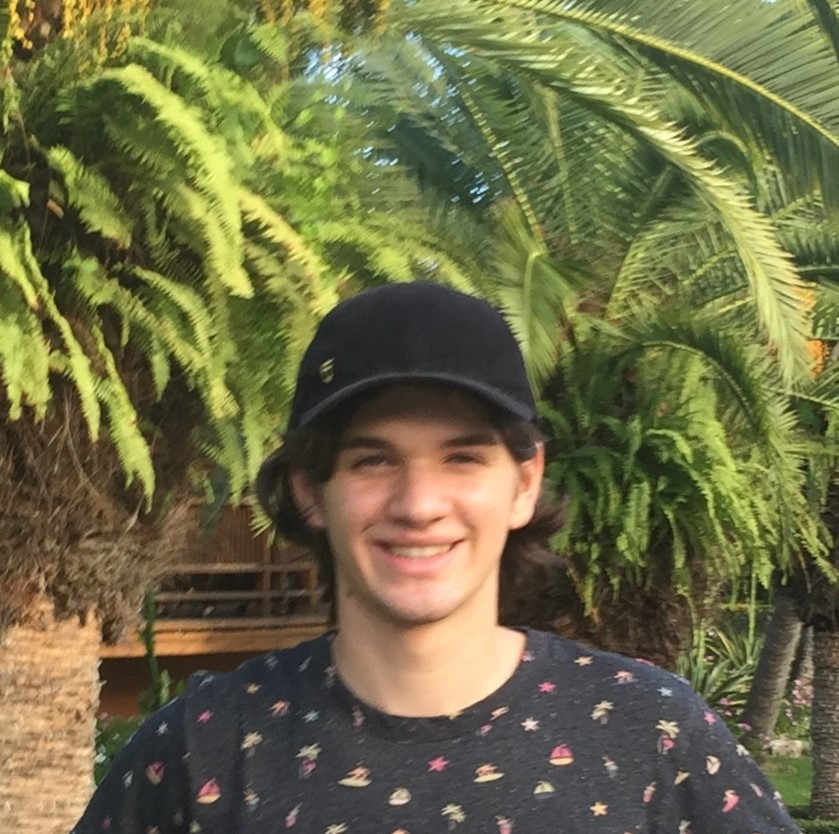
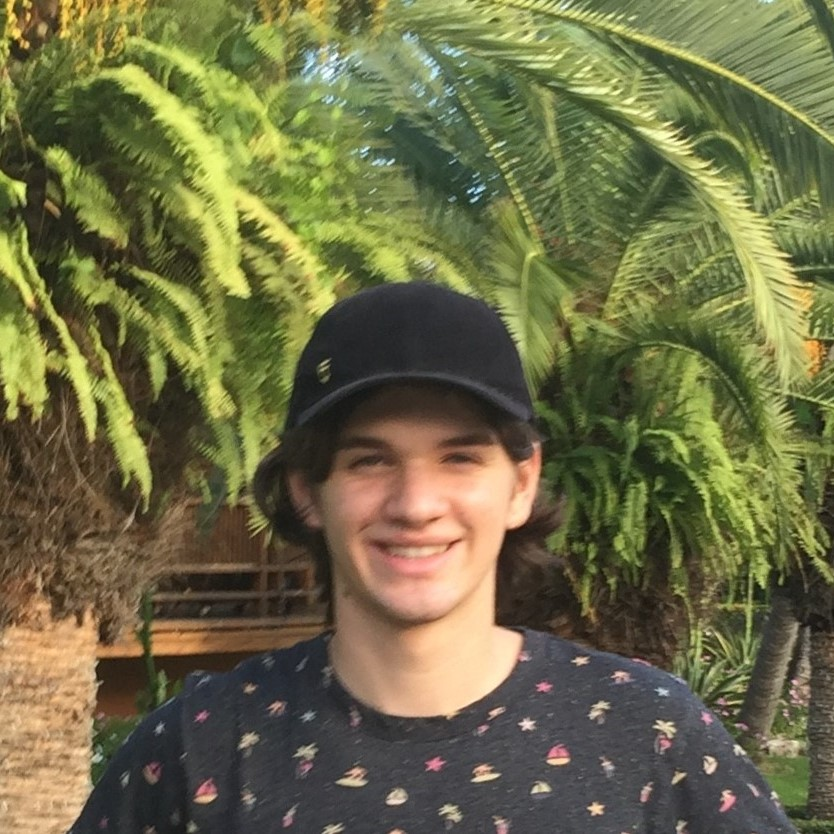
Animations done

diff --git a/schedule/templates/schedule/aboutus.html b/schedule/templates/schedule/aboutus.html
@@ -1,48 +1,65 @@
 {% extends "schedule/base.html" %}
 {% load static %}
-{% block content%}
 
-<div class='wrapper'>
-    <div class='header'> 
-        About Us 
-    </div> 
-<div class='grid'>
+{% block content%}
+<div id='cloudsbackground'>
+    <div id='clouds' class='slide-in'>
+        <img id='cloud1'  class='aclouds' src={% static 'schedule/images/cloud_clipart.png' %}>
+        <img id='cloud2'  class='aclouds ' src={% static 'schedule/images/cloud_clipart.png' %}>
+        <img id='cloud3'  class='aclouds' src={% static 'schedule/images/cloud_clipart.png' %}>
+        <img id='cloud4'  class='aclouds' src={% static 'schedule/images/cloud_clipart.png' %}>
+        <img id='cloud5'  class='aclouds' src={% static 'schedule/images/cloud_clipart.png' %}>
+        <img id='cloud6'  class='aclouds' src={% static 'schedule/images/cloud_clipart.png' %}>
+        <img id='cloud7'  class='aclouds' src={% static 'schedule/images/cloud_clipart.png' %}>
+        <img id='cloud8'  class='aclouds' src={% static 'schedule/images/cloud_clipart.png' %}>
+        <img id='cloud9'  class='aclouds cloud-grow' src={% static 'schedule/images/cloud_clipart.png' %}>
+        <img id='cloud10' class='aclouds' src={% static 'schedule/images/cloud_clipart.png' %}>
+        <img id='cloud11' class='aclouds' src={% static 'schedule/images/cloud_clipart.png' %}>
+        <img id='cloud12' class='aclouds cloud-grow' src={% static 'schedule/images/cloud_clipart.png' %}>
+</div>
+
+
+    <div class='grid fade-in-text'>
         <div id='alex' class='container '>
-            <img id= 'alexcloud' class='aboutBox' src={% static 'schedule/images/cloud_clipart.png' %}>
-                <img class='headshot' id='aleximage' src={% static 'schedule/images/headshot_alex.jpg' %}>
-                <p class='profile fade-in' id='atext'> Hi, my name is Alex (he/him) <br> I am the co-founder of Premium Babysitting. <br>
-                I am incredibly excited to be returning to the <br> program again this year! Next year I am heading off <br> to the University
-                of Waterloo, so I want to make <br> sure this last summer in Ottawa is a blast!! <br> Some of my hobbies include: <br> soccer,
-                bouldering and playing the ukelele. <br> Hope to see you all this summer :)
+            <img class='headshot' id='aleximage' src={% static 'schedule/images/Linkedin_alex_headshot.jpeg' %}>
+                <p class='profile fade-in' id='atext'> Hi, my name is Alex (he/him), and I am the co-founder of Premium Babysitting. 
+                I am incredibly excited to be returning to the program again this year! 
+                <br> 
+                <br>
+                Next year I am heading off to the University of Waterloo, so I want to make sure 
+                this last summer in Ottawa is a blast!
+                <br>
+                <br>
+                Hobbies: Soccer, bouldering and playing the ukelele. 
+                <br>
+                <br>
+                Hope to see you all this summer :)
                 </p>
                 
         </div>
 
-        <div id='lucas' class='container'>
-            <img id='lucascloud'  class='aboutBox' src={% static 'schedule/images/cloud_clipart.png' %}>
-                <img class='headshot' id='lucasimage' src={% static 'schedule/images/lucas_headshot.jpg' %}>
-                <p class='profile fade-in' id='ltext'> Hi, my name is Lucas (he/him). <br> I am the co-founder of Premium Babysitting. <br>
-                I can't wait to be back with the program <br> this summer! Next year I will be attending <br> McGill University.  </p>
+        <div id='lucas' class='container'>            
+            <img class='headshot' id='lucasimage' src={% static 'schedule/images/lucas_headshot.jpg' %}>
+                <p class='profile fade-in' id='ltext'> Hi, my name is Lucas (he/him), and I am the co-founder of Premium Babysitting.
+                I can't wait to be back with the program this summer! 
+                <br>
+                <br>
+                Next year I will be attending McGill University, and I'm going 
+                to miss you all so much. 
+                <br>
+                <br>
+                Hobbies: Basketball, my new puppy Archie, and video games.
+                <br>
+                <br>
+                Let's make this summer a blast!
         </div>
+    </div>
+
 </div>
-</div>
-
-{% comment %} <div>
-    <video class='aboutVideo' muted autoplay loop>
-        <source src={% static "schedule/images/website_vid.MP4" %}>
-    </video>
-</div> {% endcomment %}
-
-{% endblock %}
-
-{% block javascriptvar %}
-<script>
-var activeTab = 'aboutUsButton'
-</script>
 {% endblock%}
 
-{% block javascriptmethod %}
+{% block javascriptvar%}
 <script>
-addBGImage("url({% static 'schedule/images/Cloud_wallpaper.jpg' %})")
+var activeTab = 'aboutUsButton'
 </script>
 {% endblock %}

diff --git a/schedule/static/schedule/css/base.css b/schedule/static/schedule/css/base.css
@@ -75,8 +75,8 @@
     }
 
     to {
-        height: 71vh;
-        width: 30vw;
+        height: 80vh;
+        width: 40vw;
         top: 2vh;
     }
 }
@@ -135,7 +135,7 @@
         opacity: 0;
     }
 
-    50% {
+    90% {
         opacity: 0;
     }
     
@@ -169,15 +169,15 @@
     
     display: grid;
     grid-template-columns: repeat(2, 1fr);
-    gap: 10px;
     grid-auto-rows: minmax(100px, auto);
-    height:72vh;
+    height:100%;
+
     /* position: relative; */
 }
 
 .grid > div {
     text-align: center;
-    padding: 20px 0;
+    padding: 20px;
  
   }
 
@@ -190,8 +190,12 @@
 .profile {
     position: absolute;
     top: 33vh;
+    width: 30vw;
     color: black;
-    font-size: small;
+    font-size: 13px;
+    border: 3px solid black;
+    padding: 2px;
+    border-radius: 15px;
 
 }
 
@@ -213,7 +217,7 @@
     }
 
     to {
-        left: 25vw;
+        left: 70vw;
     }
 }
 
@@ -237,6 +241,7 @@
 #clouds {
     position: absolute;
     overflow: visible;
+    
 }
 
 #cloud1{
@@ -284,13 +289,14 @@
 }
 
 #cloud9{
-    left: -59vw;
+    left: -66vw;
     top: 55vh;
 }
 
 #cloud10{
     left: -39vw;
-    top: 35vh;
+    top: 40vh;
+    z-index: -1;
 }
 
 #cloud11{
